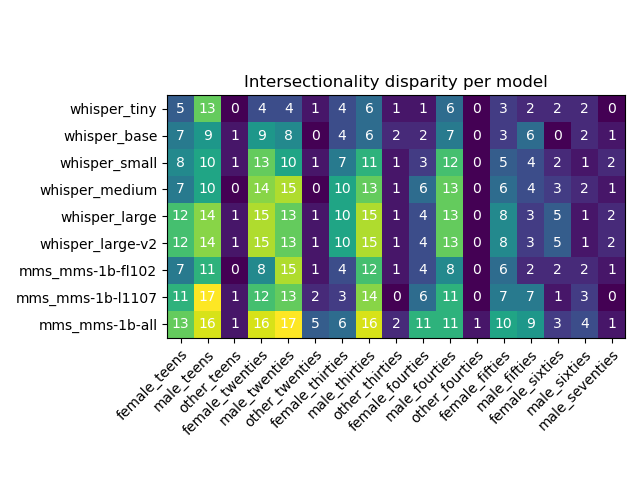
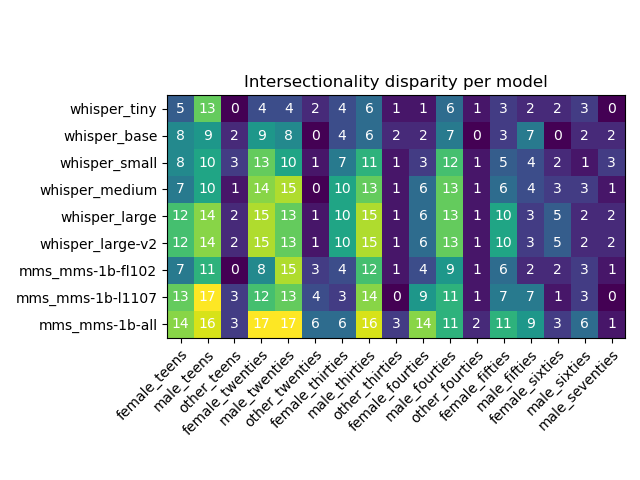
Adding MMS to gender plot and heatmap

diff --git a/visualize.py b/visualize.py
@@ -123,12 +123,7 @@ def do_significance_testing(wers, x_demo, z_demo):
   else:
     test_result = stats.ttest_ind(wers[x_demo], wers[z_demo])
   
-  if test_result[1] < 0.05:
-    #ensure min 10 sentences for a demographic group.
-    if len(wers[x_demo]) < 10:
-      print(x_demo, len(wers[x_demo]), wers[x_demo])
-      return None
-    
+  if test_result[1] < 0.05:    
     # negative t-value means that x_demo has the lowest mean. Z-demo is negatively disparate.
     if test_result[0] < 0:
       return z_demo
